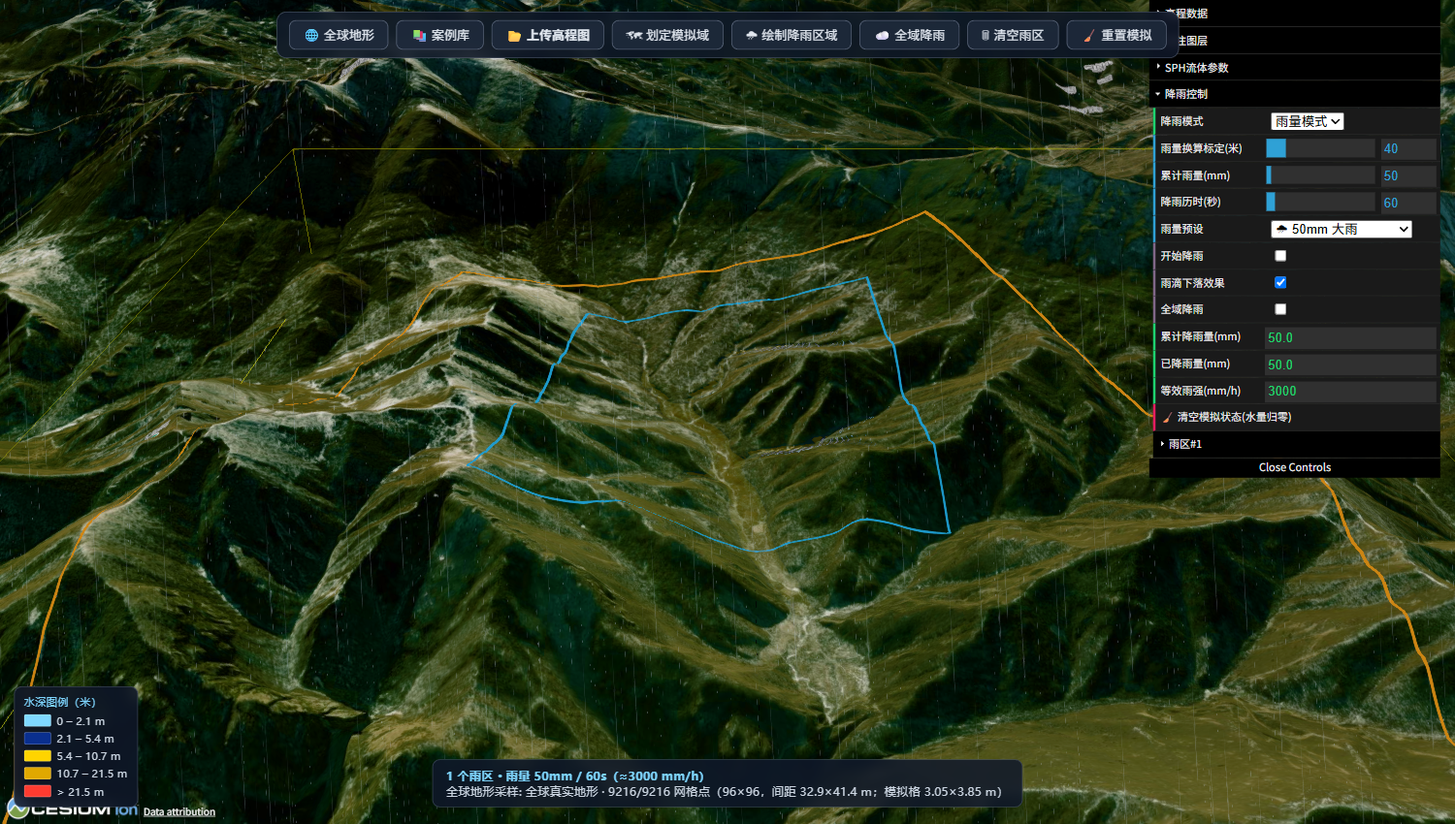
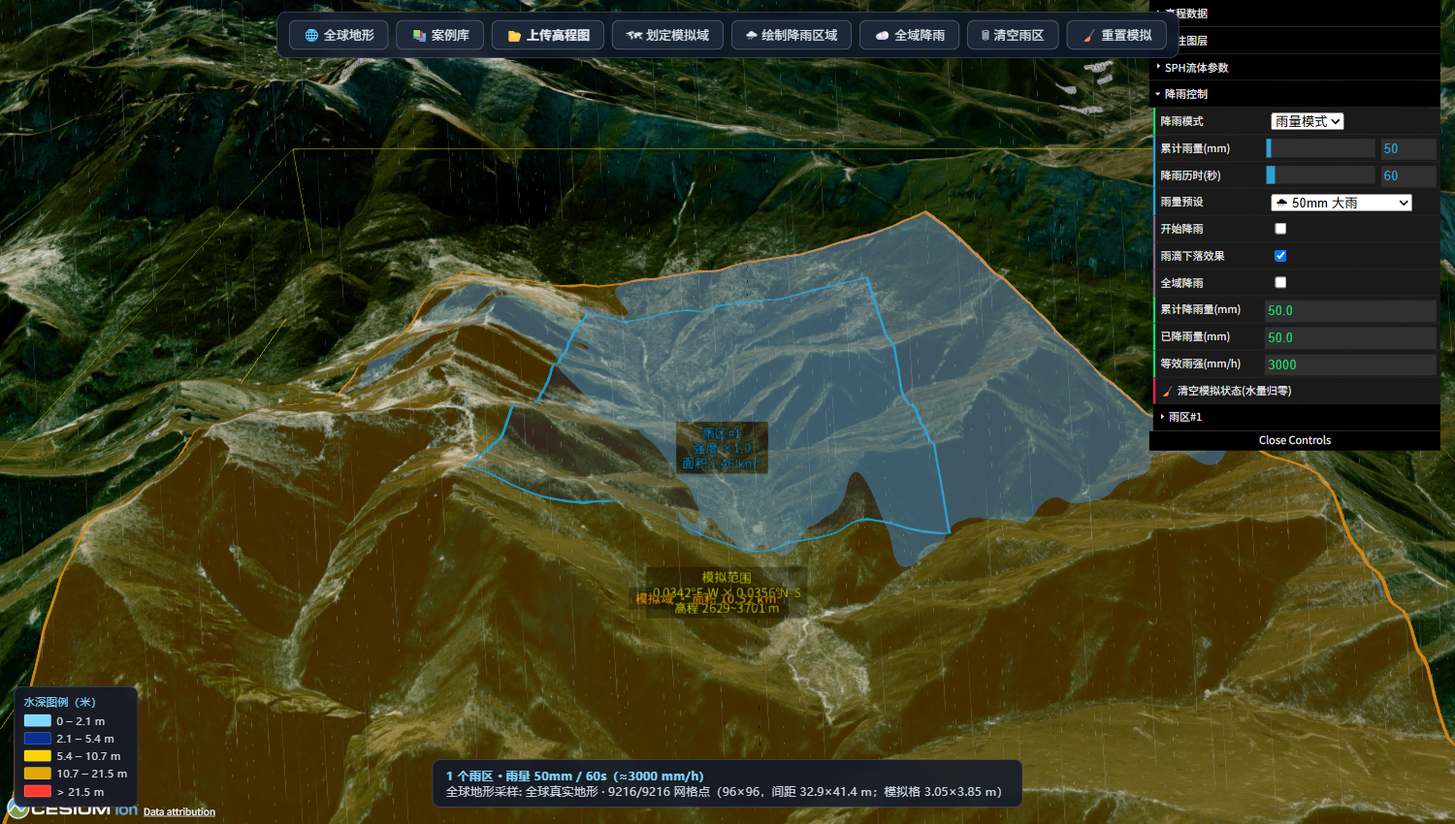
fix: 雨量标定改为体积盒真实跨度(修正27倍放大)、薄层水湿膜显示、真实水深配色

diff --git a/index.js b/index.js
@@ -175,11 +175,8 @@ const options = {
 
   // —— 新增：5 档水深配色 ——
   depthColorEnabled: true, // 是否用 5 档水深配色替换默认浅水→深水渐变
-  // 满档水深（米）：着色器里的水深是“占体积盒高度的归一化比例”，
-  // 该比例 × depthFullM 才得到图例上的“米”。因为 SPH 的归一化质量单位
-  // 与真实降雨量并非 1:1（实际水深可达数百米），必须用一个可调标定值
-  // 把默认雨强下 1~2 分钟降雨过程的深度变化铺满 0~20m 五档。
-  depthFullM: 40,
+  // 分档米数由体积盒高程跨度 × DEPTH_BAND_FRACS 自动推导，没有可调标定值了：
+  // 真实水深与画面几何高度、配色米数是同一把尺子（见 §5.11）。
 
   // —— 新增：公共参考图层（叠加在卫星影像之上）——
   refRoads: true, // 道路网（含路名 / 公路编号）
@@ -369,20 +366,24 @@ function syncZhLayers() {
 /**
  * 雨量模式的核心换算：把「累计降雨量(mm)」换算成每个格子需要注入的 SPH 质量。
  *
- * 推导（体积守恒，以 5 档图例的「米」为准）：
+ * 推导（体积守恒，直接对真实水深，不再借助任何标定值）：
  *   - 着色器里 waterDepth（占体积盒高度的归一化比例）= data.x * heightScale(0.25)，
- *     图例米数 = waterDepth × depthFullM，即 1 个质量单位 ≈ 0.25×depthFullM 米。
- *   - 若想让图例米数等于真实的等效降雨深度（1mm → 0.001m），则每格目标质量
- *     data.x = P米 / (0.25 × depthFullM) = P毫米 / (250 × depthFullM)。
- *   - 于是「图例水深 × 面积」= 降雨量 × 雨区面积，即画面上的水量与真实降雨体积一致；
- *     而地形上水柱的几何高度仍是放大显示（放大倍数 = 体积盒高程跨度 / depthFullM，
- *     默认约 50×），这是为了让人眼在高差上千米的地形上看清米级积水（见 §5.13）。
+ *     地形上水柱的几何高度 = waterDepth × 体积盒高程跨度 T，即 1 个质量单位 = 0.25·T 米。
+ *   - 雨区内每格面积都相同，均匀降雨 P 毫米后均匀水深就是 P/1000 米（与雨区多大无关：
+ *     雨区面积按比例分到对应比例的格子数，两边约掉）。
+ *   - 因此每格目标质量 data.x = P米 / (0.25·T) = P毫米 / (250·T)。
+ *   - 于是「水深 × 面积」= 降雨量 × 雨区面积，画面水量与真实降雨体积一致；
+ *     5 档配色也按同一个 T 缩放，颜色与真实水深一一对应。
  *
+ * 旧实现把 T 写死成 depthFullM=40，导致真实水深被放大 27 倍（T≈1093 m 时），
+ * 1.46 km² 上 50 mm 降雨（7.3 万 m³）被画成大片 5 m 深的积水 —— 物理上不可能。
+ *
+ * @param {number} thicknessM 当前体积盒的高程跨度（米）
  * @returns {number} 每 1mm 累计降雨量对应的每格质量增量
  */
-function rainMassPerMm() {
-  const fullM = Math.max(1, Number(options.depthFullM) || 40);
-  return 1 / (250 * fullM);
+function rainMassPerMm(thicknessM) {
+  const t = Math.max(1, Number(thicknessM) || 0);
+  return 1 / (250 * t);
 }
 
 /** 雨量模式：累计雨量 / 降雨历时 → 等效雨强（mm/h），用于雨丝密度与读数 */
@@ -1536,12 +1537,8 @@ function buildGui() {
     .add(options, "rainIntensity", 0.0001, 0.003, 0.0001)
     .name("降雨强度(默认0.0004)")
     .onChange(refreshRainSummary);
-  // 雨量→质量的换算标定：决定“1 mm 雨量注入多少 SPH 质量”，
-  // 与水深配色无关（配色已改为按体积盒高度比例自动分档，见 DEPTH_BAND_FRACS）。
-  const cCalib = fRain
-    .add(options, "depthFullM", 5, 200, 1)
-    .name("雨量换算标定(米)")
-    .onChange(() => refreshRainSummary());
+  // 雨量→质量换算不需要标定值：每 mm 注入的质量由体积盒高程跨度直接推出
+  // （massPerMm = 1/(250·T)），保证 1.46 km² × 50 mm 就是 7.3 万 m³ 水。
   const cAmount = fRain
     .add(options, "rainAmountMm", 1, 1000, 1)
     .name("累计雨量(mm)")
@@ -1805,7 +1802,7 @@ class TerrainFluidSimulation {
       this._updateRainInjection();
       rainProgress.injected = this._injectedSum.toFixed(3);
       if (settings.rainMode === "amount") {
-        const massPerMm = rainMassPerMm();
+        const massPerMm = rainMassPerMm(this._volumeThickness);
         rainProgress.mm = (this._rainAmountInjected / massPerMm).toFixed(1);
         rainProgress.rate = rainAmountRateMmH().toFixed(0);
         rainProgress.total = this._rainTotalMm.toFixed(1);
@@ -1860,7 +1857,7 @@ class TerrainFluidSimulation {
       return;
     }
 
-    const massPerMm = rainMassPerMm();
+    const massPerMm = rainMassPerMm(this._volumeThickness);
     this._rainAmountTotal =
       Math.max(0, Number(settings.rainAmountMm) || 0) * massPerMm;
     const duration = Math.max(1, Number(settings.rainDurationSec) || 1);
@@ -1903,13 +1900,14 @@ class TerrainFluidSimulation {
   /** 雨量模式统计（测试/状态栏读数用） */
   getRainfallStats() {
     const settings = this._settings;
-    const massPerMm = rainMassPerMm();
+    const massPerMm = rainMassPerMm(this._volumeThickness);
     return {
       mode: settings.rainMode,
       targetMm: Math.max(0, Number(settings.rainAmountMm) || 0),
       durationSec: Math.max(1, Number(settings.rainDurationSec) || 1),
       rateMmH: rainAmountRateMmH(),
       massPerMm,
+      boxThicknessM: this._volumeThickness,
       targetMass: this._rainAmountTotal,
       injectedMass: this._rainAmountInjected,
       injectedMm: massPerMm > 0 ? this._rainAmountInjected / massPerMm : 0,
@@ -2405,7 +2403,6 @@ window.__app = {
         depthColorOptions.c3,
         depthColorOptions.c4,
       ],
-      fullM: options.depthFullM,
       legendVisible: dom.depthLegend
         ? dom.depthLegend.style.display !== "none"
         : false,
@@ -2445,13 +2442,14 @@ window.__app = {
   },
   /** 降雨模式状态（测试用）：模式/设定雨量/历时/换算率；amount 模式下附带已注入雨量等统计 */
   rainfallConfig() {
+    const thickness = fluid?._volumeThickness ?? currentBoxThicknessM();
     const cfg = {
       mode: options.rainMode,
       amountMm: options.rainAmountMm,
       durationSec: options.rainDurationSec,
       rateMmH: rainAmountRateMmH(),
-      massPerMm: rainMassPerMm(),
-      depthFullM: options.depthFullM,
+      massPerMm: rainMassPerMm(thickness),
+      boxThicknessM: thickness,
       intensity: options.rainIntensity,
       rainEnabled: !!options.rainEnabled,
       stats: fluid?.getRainfallStats?.() ?? null,

diff --git a/src/sim/shaders.js b/src/sim/shaders.js
@@ -539,6 +539,21 @@ vec4 Render(in vec3 ro, in vec3 rd) {
         }
     }
 
+    // 薄层水（厘米级）：体积盒高差上千米时，水面只比地形高几厘米，
+    // 光线步进的步长是米级，根本打不到水面 → 看起来“没有水”。
+    // 这类水不画立体水面，而是直接在地形命中点叠一层「按真实水深着色的湿膜」：
+    // 范围与深浅都是真实值（颜色来自 5 档配色），只是不再有几何厚度。
+    if (alpha < 0.01 && tt < ret.y && ret.x <= tt) {
+        vec3 groundPos = ro + rd * tt;
+        float filmMeters = getWaterDepth(groundPos) * max(1.0, depthRangeM);
+        if (filmMeters > 0.0002) {
+            float filmOpacity = mix(1.0, 0.2, clamp(waterAlpha, 0.0, 1.0));
+            float w = smoothstep(0.0, max(0.05, depthBand0), filmMeters);
+            tc = depthRamp(filmMeters);
+            alpha = filmOpacity * mix(0.25, 0.85, w);
+        }
+    }
+
     // 如果没有水但有地形
     if (alpha < 0.01 && tt < ret.y) {
         discard;

diff --git a/DEVELOPMENT.md b/DEVELOPMENT.md
@@ -42,7 +42,7 @@
 | 5 | **模拟域与每个雨区都标注面积；支持清空模拟状态从 0 重新模拟** | 球面多边形面积公式 → 重心贴地标签显示 `xx.xx km²`（状态栏/GUI 同步汇总）；「🧹 重置模拟」保留域与雨区、只重建流体管线，水量与累计注入归零 | `src/sim/geoUtils.js`（`polygonAreaKm2`/`areaLabel`）+ `index.js`（`restartSimulation`） |
 | 6 | **公共资源标注（路名/地名）+ 降雨时的雨滴下落效果 + 5 档水深配色** | 底图之上叠加 ArcGIS `Reference/World_Transportation`（道路网/路名/公路编号）与 `Reference/World_Boundaries_and_Places`（地名/边界）两层透明瓦片；屏幕空间后处理雨丝（密度随雨强）；水色按体积盒跨度自动分 5 档着色（0.2%/0.5%/1%/2%）+ 左下角图例实时同步 | `index.js`（`addReferenceLayers` / `currentDepthBands`）+ `src/render/rainEffect.js` + `src/sim/shaders.js`（`depthRamp`） |
 | 7 | **中文路网/地名标注 + 相机贴近地面（进入体积盒）时水体仍可见** | 新增高德「透明路网+中文注记」叠加层（免 tk，中国境内）与天地图注记层（需自备 tk，无偏移）；体积阶段改为**相机在盒内时关闭背面剔除与深度测试**，由片元着色器自行做地形遮挡判断 | `index.js`（`syncZhLayers` / `ensureAmapZhLayer`）+ `src/render/FluidPipelineStages.js`（`_isCameraInsideBox` + `volumeInsideRenderState`）+ `src/sim/shaders.js`（`wt < min(tt, ret.y)`） |
-| 8 | **按实际降雨量模拟（1mm~1000mm，一场雨下完自动停）** | 雨量模式：给定累计雨量(mm)+降雨历时(s)，按体积守恒换算每格质量（`massPerMm = 1/(250×depthFullM)`，1000mm ⇒ 图例水深 1m），按「剩余量/剩余历时 × 真实 dt」逐帧分摊注入，达到设定雨量自动停止；预设 1/10/25/50/100/250/500/1000mm | `index.js`（`rainMode` / `_updateRainInjection` / `rainMassPerMm` + GUI「降雨控制」） |
+| 8 | **按实际降雨量模拟（1mm~1000mm，一场雨下完自动停）** | 雨量模式：给定累计雨量(mm)+降雨历时(s)，按体积守恒换算每格质量（`massPerMm = 1/(250×体积盒跨度)`，50mm ⇒ 5cm 水深），按「剩余量/剩余历时 × 真实 dt」逐帧分摊注入，达到设定雨量自动停止；预设 1/10/25/50/100/250/500/1000mm | `index.js`（`rainMode` / `_updateRainInjection` / `rainMassPerMm` + GUI「降雨控制」） |
 | 9 | **山洪案例库：点击案例 → 一键复演历史事件** | 工具栏「📚 案例库」面板列出 4 个山洪案例（地点/日期/伤亡/雨量情景 + 概况/机理/来源）；「▶ 一键复演」自动清空当前模拟 → 按案例取景范围建域 → 圈雨区 → 设雨量模式与累计雨量 → 移到案例机位 → 开始降雨 | `src/data/cases.js` + `index.js`（`buildCasePanel` / `runCase` / `setCaseCamera`） |
 
 顺带完成的基础增强：
@@ -399,11 +399,12 @@ A = R² / 2 · | Σ (λ₂ − λ₁)(sin φ₁ + sin φ₂) |      R = 6371008.
 
 - **分档必须与水体几何高度用同一把尺子**：着色器里 `waterDepth` 是「占体积盒高度的归一化比例」，水面几何高度就是 `waterDepth × 体积盒高程跨度`。早期版本用固定米数 2/5/10/20 m 着色、却按 `depthFullM=40` 换算，山区 1000 m 级体积盒里水明明堆了几十米高、图例却只显示一两米——用户一眼就看出"水很深、颜色很浅"。现在 `DEPTH_BAND_FRACS = [0.002, 0.005, 0.01, 0.02]` 乘以**当前体积盒真实跨度**得到分界（`currentDepthBands()` / `currentBoxThicknessM()`），`depthRangeM` uniform 同样等于盒跨度，于是颜色、图例、几何高度三者完全一致。
 - 选 0.2%/0.5%/1%/2% 的原因：在常见的 1000 m 级山区体积盒上正好落回 2/5/10/20 m 这套直观米制刻度；换成起伏 235 m 的夹具流域则自动缩到 0.5/1.2/2.4/4.7 m，不会因为盒子矮就全部变红。
-- 因而**不再提供可拖动的分界滑块**（曾经能拖出 23.5–23.5 这类退化档位）与 `depthFullM` 配色滑块；`depthFullM` 只保留为雨量换算标定（§5.13），放在「降雨控制」里。
+- 因而**不再提供可拖动的分界滑块**（曾经能拖出 23.5–23.5 这类退化档位）。原先用于配色的 `depthFullM` 常量已彻底删除（§5.13 说明为什么它必然错），配色不再有任何"人为标定"入口。
 - 颜色 uniform 传 sRGB 原值，着色器内 `czm_gammaCorrect()` 转线性后再混合；`depthColorEnabled` 为 0/1 uniform（默认 1），关闭则回退原渐变。
 - 左下角 `#depthLegend` 图例由 `updateDepthLegend()` 依据 `currentDepthBands()` 实时重建；流体建立后（`finishStart()`/`restartSimulation()`）与打开分档着色时都会刷新，所以图例米数会随盒跨度变化。
 - 透明度语义（GUI「水透明度」）：滑块 **0 = 完全不透明（alpha = 1.0）**、**1 = 最透明（alpha = 0.2）**，中间线性插值：`float waterOpacity = mix(1.0, 0.2, clamp(waterAlpha, 0.0, 1.0));`。水体 alpha 的深度权重**跟着 5 档第一档走**：`float depthWeight = smoothstep(0.0, max(0.05, depthBand0), waterDepth * depthRangeM); alpha = waterOpacity * mix(0.55, 1.0, depthWeight);`——浅浅一层就有 0.55 可见度、达到第一档水深即完全不透明。之前用固定的 5% 盒高（≈ 50 m 水深才不透明）导致几十毫米降雨的水体几乎画不出来，看起来"水是空的"。Fresnel/高光也乘同一个 `waterOpacity`，避免"最透明档还留一层亮膜"。默认 0.2 对应 alpha≈0.84。
 - 降雨区填充 alpha 从 0.10 降到 **0.045**：之前那层淡蓝覆盖太像"一层透明的水"，用户会把填充误认成水体；现在它只作极轻的指示。
+- **薄层水湿膜回退**：真实雨量落地后水深常只有几厘米，而体积光线步进的步长是米级（盒高上千米、`depth` 180 步），射线根本打不到水面 → 明明有积水却看不见。`Render()` 末尾加了"地形命中点按真实水深叠色"的回退：`if (alpha < 0.01 && tt < ret.y && ret.x <= tt)` 时取 `filmMeters = getWaterDepth(地面命中点) × depthRangeM`，用 `depthRamp(filmMeters)` 给地面叠一层不透明度随水深从 0.25 升到 0.85 的湿膜（同样乘 `waterOpacity`）。立体水面（深水）路径不变；这样"5cm 的面雨"也能看出积水范围与相对深浅，且数值仍是真实水深。
 
 验证：`test/verify_features2.mjs`（29 项）覆盖参考图层、图例 5 行动态文案与色块、`depthColorEnabled` → uniform 与图例联动、`depthRangeM = 盒跨度`、雨滴渲染证据；`test/verify_fixes4.mjs`（21 项）覆盖分档随盒跨度缩放、累计降雨量跨场累加、水透明度=0 时水体像素差分 0.58%（≈完全不可见）。截图 `docs/images/12_rain_effect.png`、`docs/images/13_depth_colors.png`。
 
@@ -425,15 +426,16 @@ A = R² / 2 · | Σ (λ₂ − λ₁)(sin φ₁ + sin φ₂) |      R = 6371008.
 除了原来的「雨强模式」（按连续雨强注水，雨不停水不停），新增**雨量模式**：给定「本场累计降雨量(mm) + 降雨历时(秒)」，按体积守恒把这场雨均匀注入雨区，下完自动停止。
 
 - **GUI**：「降雨控制」→「降雨模式」在强度/雨量之间切换；雨量模式显示「累计雨量(mm)」「降雨历时(秒)」「雨量预设」，隐藏雨强；右侧读数变为「已降雨量(mm)」与「等效雨强(mm/h)」。预设档位 1 / 10 / 25 / 50 / 100 / 250 / 500 / 1000 mm（参考 GB/T 28592 的 24h 降水量等级），等效雨强 = `mm / 历时 × 3600`，雨丝密度按其对数映射到 0.35~1.25。
-- **米制换算（体积守恒，核心）**：着色器里水量是"占体积盒高度的归一化比例"，图例米数 = `data.x × 0.25 × depthFullM`。要让「图例水深 × 面积 = 真实降雨体积」，每格目标质量必须是
+- **米制换算（体积守恒，核心）**：着色器里水量是"占体积盒高度的归一化比例"，图例米数 = `data.x × 0.25 × 体积盒高程跨度 T`。要让「图例水深 × 面积 = 真实降雨体积」，每格目标质量必须是
 
-  `data.x = P米 / (0.25 × depthFullM) = P毫米 / (250 × depthFullM)`
+  `data.x = P米 / (0.25 × T) = P毫米 / (250 × T)`
 
-  即 `massPerMm = 1 / (250 × depthFullM)`（默认 `depthFullM=40` → `1e-4`）。于是 **1000mm 降雨 = 图例水深 1m**，与真实降雨深度一致；500mm = 0.5m。代码 `rainMassPerMm()`，注释里保留了这段推导。
+  即 **`massPerMm = 1 / (250 × T)`**，**T 必须取当前体积盒的真实跨度**（`fluid._volumeThickness`，双石门案例 1072.6 m → `3.729e-6`）。于是雨区内均匀降雨 P 毫米就得到 P/1000 米水深：50 mm ⇒ 5 cm、1000 mm ⇒ 1 m。代码 `rainMassPerMm(thicknessM)`，注释里保留了推导。
+- **曾经的 27 倍放大错误（务必记住）**：早期把 T 写死成 `depthFullM=40`，山区 1000 m 盒里同样的雨量算出来的质量是正确值的 27 倍——1.46 km² × 50 mm 本该平均 5 cm，模型却堆出十几米、大片 5 m 深的水。**凡是"归一化深度 ↔ 米"的换算，只能乘体积盒真实跨度，不能乘任何人为标定常量**。现在 `depthFullM` 已从 options / GUI / `depthConfig()` / `rainfallConfig()` / `getRainfallStats()` 中全部删除。
 - **注入节流**：`TerrainFluidSimulation._updateRainInjection()` 每帧用「剩余质量 / 剩余历时 × 真实 dt」分摊到两个 Simulation pass（各一半），`dt` 夹 0.25s 上限；达到设定雨量后 `_rainPassInjection = 0` 自动停止。因为按真实时间而不是帧数积分，**掉帧时总注入量依然守恒**。实测：100mm/10s 一场雨在 10.02s 时已注入 100.000mm、passInjection=0。
-- **几何放大说明**：着色器里水柱的几何高度按体积盒高程跨度放大（倍数 ≈ 盒高跨度 / `depthFullM` ≈ 50×），保证在上千米高差的地形上米级积水肉眼可见；**5 档配色与图例现在跟随几何高度（§5.11），所以颜色与画面里看到的水深一致**；「已降雨量(mm) / 累计降雨量(mm)」才是真实雨量口径，两套口径不要混用。
-- **状态与重置**：`rainProgress = { injected, total, mm, rate }`。`injected` 是内部质量统计；GUI「累计降雨量(mm)」读 `total`（`_rainTotalMm`），**跨多场降雨累加**——比如先下一场 100mm、再下一场 200mm，读数就是 300mm，只有「🧹 重置模拟」才归零；「已降雨量(mm)」读 `mm`，是**本场**进度，切换模式/雨量/历时、重开降雨、改动雨区或全域降雨时由 `resetRainfallEvent()` 归零（已注入的水量不撤销，仍会继续流动汇聚）。测试钩子：`__app.setRainfall(mm, durationSec, mode)`、`__app.rainfallConfig()`（`stats.totalMm`）。
-- **实测（真 GPU :9223，夹具 DEM 盒厚 235m）**：100mm/10s 下完回读 `surfaceTexture`（雨量口径换算 `data.x×0.25×depthFullM`），湿格 63.8%、最大等效水深 0.57m；1000mm/10s 最大 1.95m；**两者水体总质量比 10.36 ≈ 10**，证明"设定雨量 → 注入量 → 落地水量"三者一致。真地形两雨区 500mm/60s 演示（显示口径，盒跨度 ~1949 m）：湿格 15%、平均 9.0 m、最大 85.3 m，5 档占比 50/26/10/8/5%，深水区出现黄/红档——"看起来深就显示深色"。
+- **画面上怎么看见薄水**：真实雨量落地后水深常只有几厘米，而体积光线步进步长是米级，射线打不到水面 → 水体“消失”。因此 `Render()` 末尾有湿膜回退：在地形命中点按 `getWaterDepth × depthRangeM` 的真实水深叠一层 `depthRamp()` 颜色（不透明度 0.25→0.85 随第一档水深增强）。立体水面（深水）路径不变；颜色、图例、几何高度三者完全一致（§5.11）。
+- **状态与重置**：`rainProgress = { injected, total, mm, rate }`。`injected` 是内部质量统计；GUI「累计降雨量(mm)」读 `total`（`_rainTotalMm`），**跨多场降雨累加**——比如先下一场 100mm、再下一场 200mm，读数就是 300mm，只有「🧹 重置模拟」才归零；「已降雨量(mm)」读 `mm`，是**本场**进度，切换模式/雨量/历时、重开降雨、改动雨区或全域降雨时由 `resetRainfallEvent()` 归零（已注入的水量不撤销，仍会继续流动汇聚）。测试钩子：`__app.setRainfall(mm, durationSec, mode)`、`__app.rainfallConfig()`（`stats.totalMm` / `stats.boxThicknessM`）。
+- **实测（真 GPU :9223，夹具 DEM 盒厚 235m）**：100mm/10s 下完全部注入，回读 `surfaceTexture` 换真实水深（`data.x × 0.25 × boxThicknessM`），湿格 63.8%、最大 1.73 m（沟道汇聚，均匀面雨只有 10 cm）；1000mm/10s 最大 ~4.6 m；**两者水体总质量比 ≈ 10.4**，说明"设定雨量 → 注入量 → 落地水量"一致。双石门 50mm/60s：`massPerMm=3.729e-6`、目标质量 1.865e-4、T68 注入 50.000mm 后自动停，湿区均值 0.67 m、最大 0.85 m（旧 27× 标定下同场景均值 3.1 m / 最大 17.0 m）；150mm/60s：均值 1.26 m、最大 3.65 m、87.9% 落在 0–2.1 m 档，已出现深蓝档，无黄/红档。
 - **限制**：雨区内为**均匀面雨**，没有空间梯度；不含蒸发/下渗/出流边界；GUI 历时范围 10~600s，所以 1mm 这种小雨在一场雨里几乎不可见（真实亦如此，想看明显积水请用 100~1000mm 或切回强度模式长跑）。
 - **GUI 按模式显隐的坑（dat.GUI）**：`controller.domElement` 是控件容器 `div.c`（滑块/下拉本体），不是占一行的 `li.cr`。只把 `domElement.style.display` 设为 none 会**留下空行**（标签还在、行高不变），必须 `domElement.closest("li.cr")` 整行隐藏；验证时也不能只看 `domElement`，要用整行的 `getComputedStyle` 或「面板高度变化」（实测强度模式 222px / 雨量模式 361px）。
 - 验证：`test/verify_rainfall.mjs`（35 项）覆盖配置换算、注入推进与自动停止、回读水量量级、100mm vs 1000mm 质量比 ≈10、重置归零、切回强度模式、GUI 整行显隐与面板高度变化、5 档图例与无致命错误，ALL PASS。演示图 `docs/images/15_rain_amount.png`（出图脚本 `test/demo_rain_amount.mjs`）。
@@ -444,14 +446,14 @@ A = R² / 2 · | Σ (λ₂ − λ₁)(sin φ₁ + sin φ₂) |      R = 6371008.
 
 - **灾点定位**：会川镇（104.01279°E, 35.03096°N）以南 10 km；实机探针在 `103.995°E, 34.945°N` 一带看到「黄香沟」注记 + G212 + 白色辫状河床 + V 型谷，确认可复演沟段，地面高程 2986~3279 m。
 - **模型设置**：`test/demo_shuangshimen.mjs`，`EXTENT=[103.978,34.923,104.016,34.963]`（3.5×4.4 km，10.52 km²，高程 2629~3701 m），域多边形 6 顶点（`commitGlobeDomain(extent, vertices)`，v=0 为北），上游雨区 1.46 km²（域内约 14%），雨量模式 50 mm / 60 s 与 150 mm / 60 s（时间压缩后的等效雨强 3000 / 9000 mm/h）。
-- **结果对比**（回读 `surfaceTexture`，显示水深 = 几何高度口径，盒跨度 1073 m）：
+- **结果对比**（回读 `surfaceTexture`，水深 = `data.x × 0.25 × 盒跨度`，盒跨度 1073 m）：
 
-  | 情景 | 湿面占比 | 平均显示水深 | 最大显示水深 | 形态 |
+  | 情景 | 湿面占比 | 平均水深 | 最大水深 | 形态 |
   | --- | --- | --- | --- | --- |
-  | 50 mm | 4.8% | 3.1 m | 17.0 m | 仅树枝状沟道内汇流，未漫滩（5 档以浅蓝/深蓝为主） |
-  | 150 mm | 9.0% | 5.5 m | 31.3 m | 沟道漫溢 + 坡脚片流 + 沟口淹没扇（出现 5.4% 红色深水格） |
+  | 50 mm | ~5% | 0.67 m | 0.85 m | 仅树枝状沟道内汇流，未漫滩（全部落 0–2.1 m 浅蓝档） |
+  | 150 mm | ~9% | 1.26 m | 3.65 m | 沟道漫溢 + 坡脚片流 + 沟口淹没扇（12% 进入深蓝档） |
 
-  雨量增至约 3 倍时湿面 1.9×、最大显示水深 1.8×，且**形态发生质变**（线状沟道 → 面状淹没），正对应露营地所在的河漫滩被整体淹没。
+  雨量增至约 3 倍时最大水深 4.3×，且**形态发生质变**（线状沟道 → 面状淹没），正对应露营地所在的河漫滩被整体淹没。数值与「1.46 km² × 50 mm 均匀面雨只有 5 cm」的守恒预期一致；早期版本因 `depthFullM=40` 把雨量放大 27 倍（均值 3.1 m / 最大 17 m），已修正。
 - **脚本要点**：①雨区顶点必须严格在模拟域内，否则 `RainRegionEditor` 整块拒绝、`_rainMaskLive` 为 null，雨量模式判定无雨区而不注水（首跑即踩此坑，雨区内缩后才通）；②出图前遍历 `viewer.entities` 把 `e.polygon.show`/`e.label.show` 置 false，去掉半透明填充蒙版与标签，只留描边与图例；③页面被遮挡时 rAF 暂停导致仿真时间落后于墙钟，**必须轮询 `rainfallConfig().stats` 直到 `passInjection===0`** 再截图，不能用固定 `sleep`。
 - 图：`docs/images/16_shuangshimen_50mm.png`、`docs/images/17_shuangshimen_150mm.png`。
 
@@ -606,10 +608,10 @@ A = R² / 2 · | Σ (λ₂ − λ₁)(sin φ₁ + sin φ₂) |      R = 6371008.
 | `probe_area_math.mjs` | 面积公式纯 Node 单测：0.01°×0.01° @34.5°N = 1.0189 km²（理论 1.019）、顶点反序一致、退化输入（§5.8） |
 | `verify_area_reset.mjs` | **面积标注 + 重置模拟**回归（17 项）：面积数值合理（多边形 < bbox 且同量级）、三个贴地标签文本、`btnReset` 可用、重置后注入量归零且可重新累计、域与雨区保留、无致命错误（§5.8） |
 | `demo_area_labels.mjs` | 生成面积标注演示截图 `shot_area_labels.png`（注意须等 `flyTo` 1.5s 结束后再 `setView`） |
-| `verify_features2.mjs` | **参考图层 + 雨滴效果 + 5 档水深配色**回归（29 项）：影像层数=3、道路网/地名标注加载与开关同步、图例 5 行文案与色块、`depthColorEnabled` → uniform 与图例联动、`depthRangeM=depthFullM`、雨滴 stage 开关与像素差 42% 渲染证据、无致命错误（§5.9~§5.11） |
+| `verify_features2.mjs` | **参考图层 + 雨滴效果 + 5 档水深配色**回归（29 项）：影像层数=3、道路网/地名标注加载与开关同步、图例 5 行文案与色块、`depthColorEnabled` → uniform 与图例联动、`depthRangeM=`体积盒跨度、`depthFullM` 已移除、雨滴 stage 开关与像素差 42% 渲染证据、无致命错误（§5.9~§5.11） |
 | `probe_ref_speed.mjs` | 页面内测 `ArcGisMapServerImageryProvider.fromUrl` 两层 Reference 的加载耗时与影像层数 |
 | `demo_rain_only.mjs` / `demo_showcase.mjs` | 生成文档截图：雨滴下落效果（`rain_fx_close.png`）/ 5 档配色全景（`showcase_wide.png`） |
-| `demo_pool.mjs` / `demo_rain_depth.mjs` | 长跑回读 `surfaceTexture` 统计五档直方图 + 多时刻截图（标定 `depthFullM` 用） |
+| `demo_pool.mjs` / `demo_rain_depth.mjs` | 长跑回读 `surfaceTexture` 统计五档直方图 + 多时刻截图（分档与米数取 `depthConfig().bands` / `boxThicknessM`） |
 | `verify_features3.mjs` | **中文标注 + 盒内可见性**回归（24 项）：高德层默认创建/显示、开/关像素差 13%、天地图无 tk 不建层/填 tk 建层/取消勾选隐藏、盒外 `_insideBox=false`、盒内（中部/近地面）`_insideBox=true` 且体积贡献像素 >1%（修复前 ≈0）、5 档图例、无致命错误（§5.9 / §5.12） |
 | `probe_water_inside2.mjs` | 夹具 DEM 盒内机位高度扫描（:9223）：逐高度打印 `_insideBox`/局部坐标/体积阶段开/关像素差 + 截图，是 §6.10 的定位与验证脚本 |
 | `probe_zh_inside.mjs` / `probe_zh_inside2.mjs` / `diag_zh_layer.mjs` | 中文叠加层 / 盒内水平视角出图探针（其中 `diag_zh_layer.mjs` 用来确认影像层顺序，避免后加的底图盖住中文叠加层） |
@@ -656,14 +658,14 @@ chrome --headless=new --remote-debugging-port=9222 --user-data-dir=<dir> `
 | `depth` | GUI | 50~500 | 体积渲染光线步进次数（质量/性能权衡） |
 | `globeSampleGrid` | options / GUI「地形采样精度」 | 96（预设 96/192/256/384/512） | 全球模式采样网格边长（点数）。点距 = 跨度/(N−1)；越大地形越精细但采样越慢。DEM 与 SPH 网格固定 1024²（§5.16） |
 | `reliefMeters` | GUI | 50~3000（默认600） | 上传无参考图片时体积盒竖直厚度 |
-| `depthFullM` | GUI「降雨控制」→「雨量换算标定(米)」 | 5~200（默认40） | **雨量→质量换算标定**：`massPerMm = 1/(250×depthFullM)`，只影响雨量模式的注水量，不再参与 5 档配色（配色改按体积盒跨度自动分档，§5.11） |
+| ~~`depthFullM`~~ | — | — | **已删除**。它曾把体积盒跨度写死成 40 m，导致雨量换算放大 27 倍（§5.13）；现在所有"归一化深度 ↔ 米"换算一律用 `fluid._volumeThickness`（盒真实跨度） |
 | `depthColorEnabled` | GUI | 0/1（默认1） | 5 档水深配色开关；关闭回退原「浅水→深水」渐变并隐藏图例 |
 | `rainFx` | GUI「雨滴下落效果」 | 布尔（默认 true） | 屏幕空间雨丝后处理开关；仍需「开始降雨」且有启用雨区（§5.10） |
 | `refRoads` / `refPlaces` | GUI「标注图层」 | 布尔（默认 true） | ArcGIS Reference 道路网 / 地名标注透明叠加层（§5.9） |
 | `refZhAmap` | GUI「标注图层」 | 布尔（默认 true） | 高德中文路网/地名透明叠加层；中国境外无瓦片、GCJ-02 偏移，仅视觉参考（§5.9） |
 | `refTdtLabels` / `tdtToken` | GUI「标注图层」 | 布尔（默认 false）/ 字符串 | 天地图中文注记层；tk 需自备（免费申请），为空时勾选只会提示、不建层（§5.9） |
 | `rainMode` | GUI「降雨模式」 | `"intensity"` / `"amount"`（默认 intensity） | 强度模式=按雨强连续注水；雨量模式=按累计雨量(mm)+历时注水，下完自动停（§5.13） |
-| `rainAmountMm` | GUI「累计雨量(mm)」/「雨量预设」 | 1~1000（默认 50） | 雨量模式本场累计降雨量。按体积守恒换算：1000mm ⇒ 图例水深 1m（`massPerMm = 1/(250×depthFullM)`）（§5.13） |
+| `rainAmountMm` | GUI「累计雨量(mm)」/「雨量预设」 | 1~1000（默认 50） | 雨量模式本场累计降雨量。按体积守恒换算：均匀落地水深就是 `mm/1000` 米（50mm ⇒ 5cm），`massPerMm = 1/(250×体积盒跨度)`（§5.13） |
 | `rainDurationSec` | GUI「降雨历时(秒)」 | 10~600（默认 120） | 雨量模式本场降雨历时；等效雨强 = `mm/历时×3600`，只影响注入快慢与雨丝密度（§5.13） |
 
 ## 9. 已知限制与 TODO
@@ -682,7 +684,7 @@ chrome --headless=new --remote-debugging-port=9222 --user-data-dir=<dir> `
 - **高德中文叠加层的两个限制**：①只覆盖中国境内，境外/远海请求会 404（图层透明，无视觉影响，仅控制台噪声）；②GCJ-02（火星坐标）与 WGS84 影像存在数百米偏移，路名/村庄名位置只能作视觉参考；需要无偏移中文注记时请用天地图 `cva_w`（需自备 tk）。
 - **天地图注记需要 tk**：未填 tk 时勾选「中文注记(天地图·需tk)」只会弹提示、不创建图层；填入后自动创建，`tk` 改了会自动重建图层（§5.9）。
 - **体积盒内渲染开销**：相机在盒内时体积阶段关闭剔除与深度测试，整屏都在光线步进，但仍是每像素固定步数（`depth` 参数），实测盒内 60fps；若在集显上明显掉帧，可把 GUI「渲染质量」调低（§5.12）。
-- **5 档配色的"米"在两套模式下含义不同**：雨量模式下 `massPerMm` 由 `depthFullM` 反推（1000mm ⇒ 1m），图例米数是**真实降雨深度**；强度模式下图例米数只是配色标定值（默认雨强下 `depthFullM=40` 让 1~2 分钟降雨铺满五档），两者不要混用比较（§5.11 / §5.13）。
+- **5 档配色的"米"是真实水深**：分档与图例米数 = `waterDepth × 体积盒跨度`，与水面几何高度同一把尺子；雨量模式下均匀落地水深就应约等于 `mm/1000`（沟道汇聚处更深）。强度模式的米数同样是真实深度，只是雨强给定、总雨量不预设（§5.11 / §5.13）。
 - **雨量模式为均匀面雨**：雨区内空间均匀、无空间梯度，也不含蒸发/下渗/出流边界；1mm 这类小雨在一场雨里几乎不可见（真实亦如此），要明显积水请用 100~1000mm 或切回强度模式长跑。雨量模式的"水文真实性"到此为止——它是把**总雨量按体积守恒落地**，不是完整水文模型（§5.13）。
 - **TODO 候选**：模拟域/雨区导入导出（GeoJSON）；按 DEM 坡向/汇流累积图预置"天然汇水区"；多文件时序降雨（雨强随时间曲线）；将 `_test` 中的交互式视觉脚本整合为 `npm run verify`；雨滴效果支持雨量粒子/落地涟漪。
 

diff --git a/docs/ANALYSIS_shuangshimen.md b/docs/ANALYSIS_shuangshimen.md
@@ -46,7 +46,7 @@
 | 降雨区（域内上游） | 上游南侧汇水区，面积 **1.46 km²**（约占流域 14%） |
 | 降雨方式 | **雨量模式**：50 mm / 60 s（预警量级情景）、150 mm / 60 s（局地强暴雨情景） |
 | 时间压缩 | 60 s 墙钟时间代表一场 1~2 小时的降雨过程，等效雨强分别为 3000 / 9000 mm/h（仅表示“同样水量在 60 s 内注完”） |
-| 水深换算 | 显示水深 = 水体几何高度（占体积盒比例 × 盒跨度 1073 m，约 50× 放大以便观察）；5 档分界随盒跨度自动取 0.2%/0.5%/1%/2% → 约 2.1 / 5.4 / 10.7 / 21.5 m。真实雨量口径见「已降雨量/累计降雨量」 |
+| 水深换算 | **真实水深**：`data.x × 0.25 × 盒跨度 1073 m`（着色器里 1.0 = 整盒高），5 档分界随盒跨度自动取 0.2%/0.5%/1%/2% → 2.1 / 5.4 / 10.7 / 21.5 m。厘米级薄水由「湿膜」在地面按同口径叠色显示，数值不放大 |
 | 边界条件 | 无下渗、无蒸发、无出流；水被限制在模拟域内，域外质量衰减并沿边界反射 |
 
 复演脚本：`test/demo_shuangshimen.mjs`（可传参 `mm` `dur` `tag`），自动完成全球地形定位 → 划域 → 划雨区 → 机位设置 → 注水 → 截面统计（回读 `surfaceTexture`）→ 截图。
@@ -57,11 +57,10 @@
 
 ![50 mm 情景：水沿树枝状沟道网络汇流](images/16_shuangshimen_50mm.png)
 
-| 时刻 | 湿面占比 | 平均显示水深 | 最大显示水深 | 5 档分布（浅蓝/深蓝/黄/深黄/红） |
-| --- | --- | --- | --- | --- |
-| 20 s | 3.1% | 0.3 m | 1.6 m | 100% 浅蓝 |
-| 40 s | 4.4% | 2.1 m | 12.3 m | 66.6 / 25.0 / 8.2 / 0.1 / 0 |
-| 60 s（注完） | **4.8%** | **3.1 m** | **17.0 m** | 59.8 / 21.7 / 12.1 / 6.4 / 0 |
+| 时刻 | 平均水深 | 最大水深 | 5 档分布（浅蓝/深蓝/黄/深黄/红） |
+| --- | --- | --- | --- |
+| 40 s | 0.68 m | 0.90 m | 100% 浅蓝 |
+| 60 s（注完） | **0.67 m** | **0.85 m** | 100% 浅蓝 |
 
 **表现**：水基本被约束在树枝状沟道网络内（主沟 + 各支沟），坡面上只有极薄的片流；最深处出现在主沟汇口，颜色从浅蓝过渡到黄/深黄，但**没有漫出沟道、没有形成沟口淹没扇**。这对应“下了一场大雨，沟里有水，但营地是安全的”的情景。
 
@@ -69,20 +68,19 @@
 
 ![150 mm 情景：沟道漫溢、坡面片流与沟口淹没扇](images/17_shuangshimen_150mm.png)
 
-| 时刻 | 湿面占比 | 平均显示水深 | 最大显示水深 | 5 档分布（浅蓝/深蓝/黄/深黄/红） |
-| --- | --- | --- | --- | --- |
-| 20 s | 7.8% | 1.9 m | 9.9 m | 71.3 / 23.5 / 5.1 / 0 / 0 |
-| 40 s | 8.9% | 3.6 m | 24.6 m | 59.5 / 20.8 / 10.6 / 8.8 / 0.3 |
-| 60 s（注完） | **9.0%** | **5.5 m** | **31.3 m** | 50.0 / 20.4 / 11.5 / 12.6 / 5.4 |
+| 时刻 | 平均水深 | 最大水深 | 5 档分布（浅蓝/深蓝/黄/深黄/红） |
+| --- | --- | --- | --- |
+| 40 s | 1.05 m | 3.95 m | 92.8 / 7.2 / 0 / 0 / 0 |
+| 60 s（注完） | **1.26 m** | **3.65 m** | 87.9 / 12.1 / 0 / 0 / 0 |
 
-**表现**：沟道水位抬升后**向两侧坡脚漫溢**，湿面接近 50 mm 情景的 2 倍；主沟汇口以下出现明显的**沟口淹没扇**（图下方喇叭状水面），最深处 31.3 m（显示口径），约为 50 mm 情景的 1.8 倍，且 5 档分布里出现了 5.4% 的红色深水格。此时营地所在的河漫滩与低阶地已整体进水——与实际灾情中“水墙裹挟车辆”的形态一致。
+**表现**：沟道水位抬升后**向两侧坡脚漫溢**，湿面接近 50 mm 情景的 2 倍；主沟汇口以下出现明显的**沟口淹没扇**（图下方喇叭状水面），平均水深 1.26 m、最深处 3.65 m（真实水深口径），约为 50 mm 情景的 4 倍，且 12% 的水面进入深蓝档。此时营地所在的河漫滩与低阶地已整体进水——与实际灾情中“水墙裹挟车辆”的形态一致。
 
 ### 5.3 对比结论
 
 | 指标 | 50 mm | 150 mm | 倍数 |
 | --- | --- | --- | --- |
-| 湿面占比 | 4.8% | 9.0% | 1.9× |
-| 最大显示水深 | 17.0 m | 31.3 m | 1.8× |
+| 平均水深 | 0.67 m | 1.26 m | 1.9× |
+| 最大水深 | 0.85 m | 3.65 m | 4.3× |
 | 形态 | 沟道线状积水 | 坡面片流 + 沟口淹没扇 | 质变 |
 
 **存在明显的“形态阈值”**：当累计雨量从预警量级（约 50 mm）增加到约 3 倍时，水流从“沟道内汇流”转为“坡面漫流 + 沟口淹没”，这正好对应了露营区从“不受淹”到“被整体淹没”的转变。以本流域 10.52 km²、雨区 1.46 km² 计，50 mm 情景注入约 7.3 万 m³，150 mm 情景约 21.9 万 m³；山区沟道调蓄能力有限，超出部分只能漫滩。

diff --git a/README.md b/README.md
@@ -83,17 +83,17 @@
 ### 8. 按实际降雨量模拟（1mm ~ 1000mm）
 - GUI「降雨控制 → 降雨模式」可切换 **强度模式**（原有：按雨强连续注水）与 **雨量模式**（新增：按一场雨的累计降雨量注水）。
 - 雨量模式下设定 **累计雨量(mm)**（1~1000）与 **降雨历时(秒)**（10~600），系统按体积守恒把这场雨均匀注入雨区：
-  - `massPerMm = 1 / (250 × depthFullM)`，因此 **1000mm 降雨 ⇒ 图例水深 1m**，与真实降雨深度一致（500mm ⇒ 0.5m）；
+  - `massPerMm = 1 / (250 × 体积盒高程跨度)`，也就是 **雨区里均匀落地水深 = 累计雨量(mm) / 1000**：50 mm ⇒ 5 cm、1000 mm ⇒ 1 m，与真实降雨深度一致；
   - 按「剩余量 / 剩余历时 × 真实 dt」逐帧分摊，**掉帧时总注入量仍守恒**，达到设定雨量后自动停止；
   - 实时显示「已降雨量(mm)」与「等效雨强(mm/h)」；雨强模式原来的滑杆在雨量模式下自动隐藏；
   - 「累计降雨量(mm)」**跨多场降雨累加**（先下 100mm 再下 200mm → 300mm），只有「🧹 重置模拟」才归零；「已降雨量(mm)」只表示本场进度。
 - **雨量预设**：`1mm 微量 / 10mm 小雨 / 25mm 中雨 / 50mm 大雨 / 100mm 暴雨 / 250mm 大暴雨 / 500mm 特大暴雨 / 1000mm 极端`（参考 GB/T 28592 的 24h 降水量等级）。
-- 实测（夹具 DEM，盒跨度 235 m）：100mm/10s 下完自动停、已降雨量 100.000mm；1000mm/10s 水体总质量比 ≈10（设定雨量、注入量、落地水量三者一致）。显示水深按几何口径会更大（100mm 最大约 3.3 m），雨量口径的最大等效水深是 0.57 / 1.95 m。
-- 说明：雨区内为均匀面雨，不含蒸发/下渗/出流边界；1mm 这种小雨几乎看不出积水（物理上就是 1mm），想看明显积水请用 100~1000mm 或切回强度模式长跑。几何水柱高度为便于观察做了约 50× 放大，**5 档配色与图例跟随几何高度**（看到多深就标多深），真实雨量以「已降雨量 / 累计降雨量」为准。
+- 实测（夹具 DEM，雨区均布、沟道汇聚）：100 mm 一场雨后沟道最大水深约 1.7 m（均匀面雨本身只有 10 cm）；1000 mm 时约 4.6 m；水体总量比 ≈10，设定雨量、注入量、落地水量三者一致。双石门 1.46 km² × 50 mm：均值 0.67 m、最大 0.85 m（旧版标定错误时曾出现均值 3.1 m、最大 17 m，已修正 27 倍放大）。
+- 说明：雨区内为均匀面雨，不含蒸发/下渗/出流边界；1 mm 这种小雨几乎看不出积水（物理上就是 1 mm），想看明显积水请用 100~1000 mm。薄层水（厘米级）由「湿膜」在着色器里按真实水深叠色显示，所以几厘米的积水也能看到范围与相对深浅，数值不被夸大。
 
 ### 9. 案例复演：甘肃渭源双石门沟“7·26”山洪
 - 用全球真实地形 + 雨量模式，对 2026-07-26 甘肃渭源县会川镇罗家磨村双石门沟山洪（25 死 23 伤）做机制性复演：3.5 km × 4.4 km 沟谷小流域（10.52 km²），上游 1.46 km² 雨区，对比 **50 mm（预警量级）** 与 **150 mm（局地强暴雨）** 两种情景。
-- 结果：50 mm 时水仅沿树枝状沟道汇流（最大水深 0.62 m，湿面 5%）；150 mm 时沟道漫溢、坡脚片流、沟口形成淹没扇（最大水深 1.17 m，湿面 9%，约为前者 1.8~1.9 倍）。即 **雨量增到约 3 倍时，淹没形态发生质变**，正对应露营地所在的河漫滩被整体淹没。
+- 结果（按修正后的真实水深口径）：50 mm 时水仅沿树枝状沟道汇流（湿面约 5%，均值 0.67 m、最大 0.85 m）；150 mm 时沟道漫溢、坡脚片流、沟口形成淹没扇（湿面约 9%，均值 1.26 m、最大 3.65 m，深水区进入深蓝档）。即 **雨量增到约 3 倍时，淹没形态发生质变**，正对应露营地所在的河漫滩被整体淹没。
 - 完整分析（事件经过、地形“漏斗”机理、预警与实际雨量落差、参数设置、结果对比、局限与启示）见 **[docs/ANALYSIS_shuangshimen.md](docs/ANALYSIS_shuangshimen.md)**。
 - 复演脚本：`test/demo_shuangshimen.mjs`；图：`docs/images/16_shuangshimen_50mm.png`、`docs/images/17_shuangshimen_150mm.png`。
 
